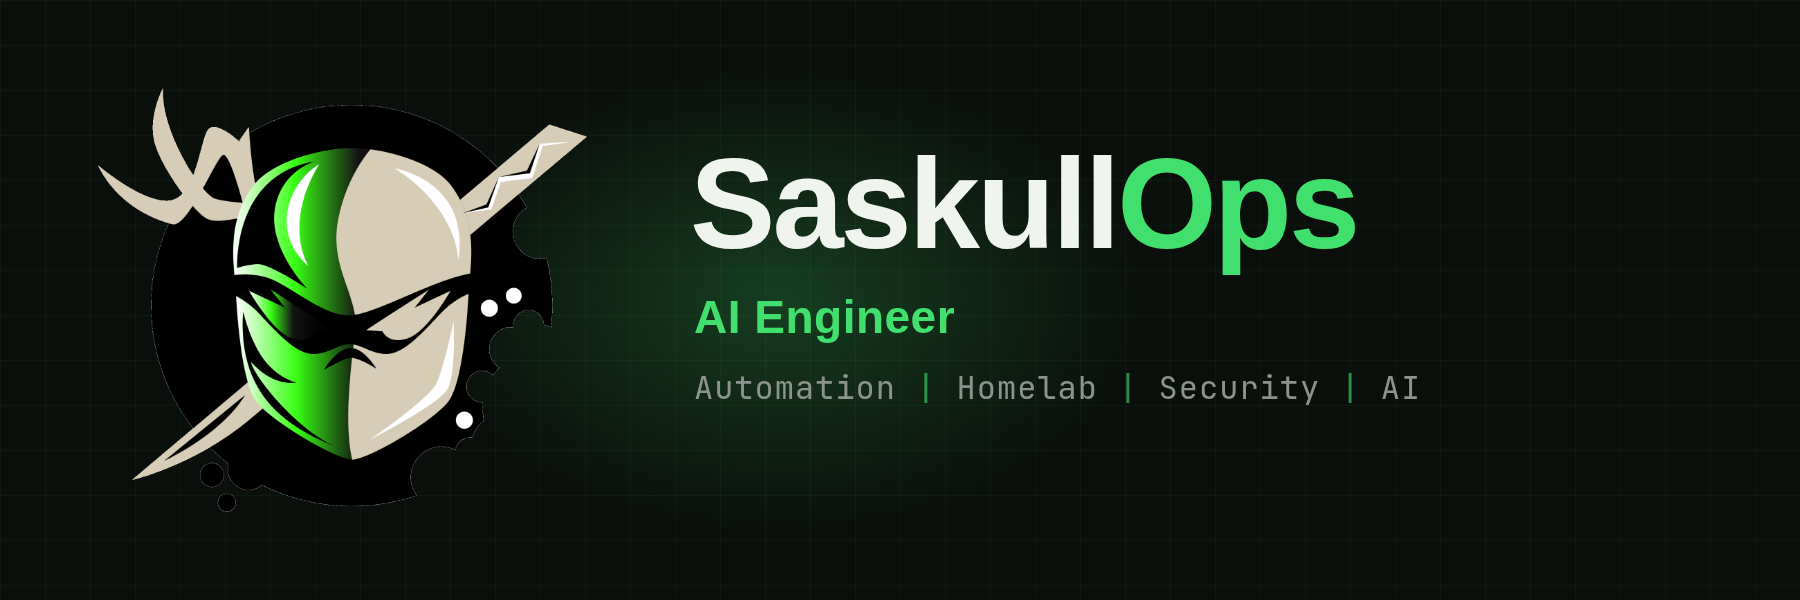
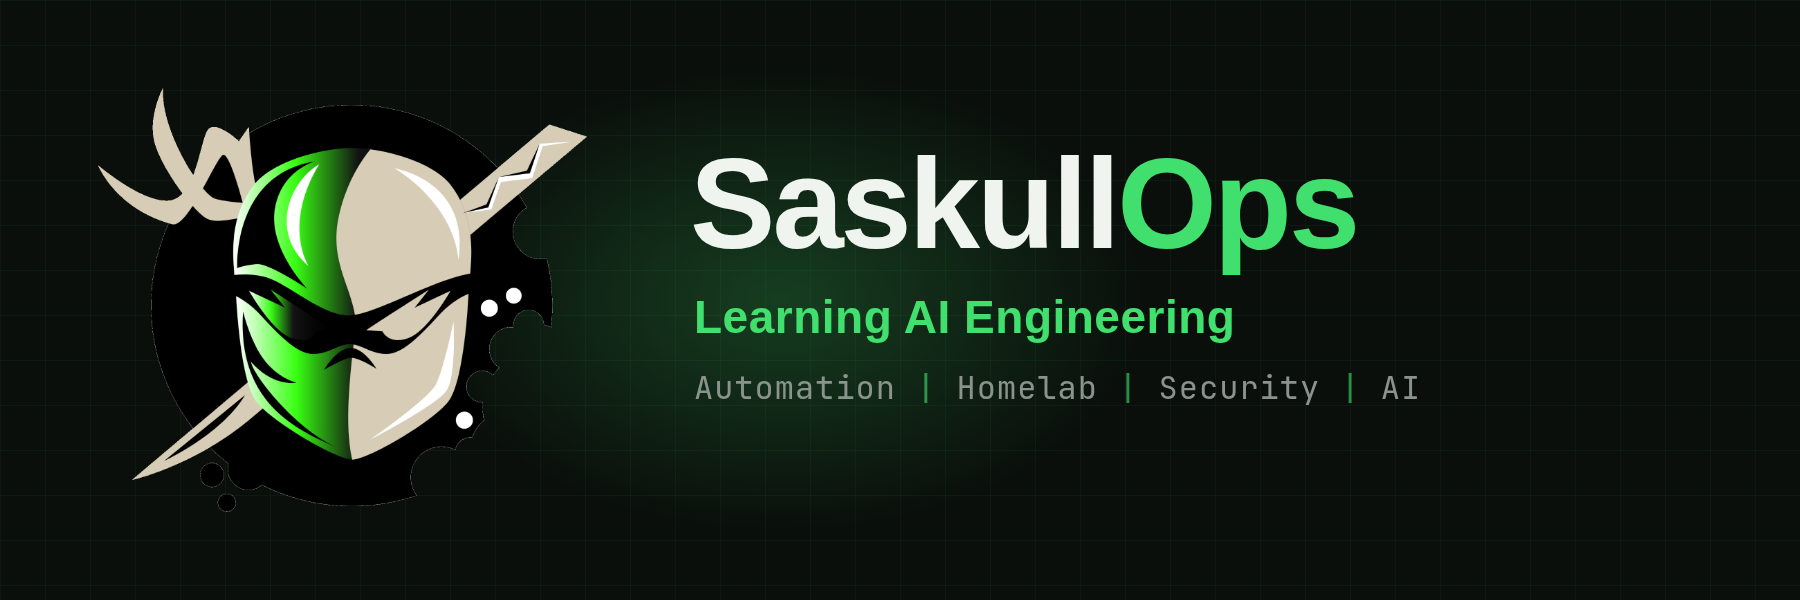
feat(brand): show learning AI engineering instead of a role claim

Changed region(s): [[0.3733, 0.48, 0.6844, 0.57]]

diff --git a/_tabs/about.md b/_tabs/about.md
@@ -8,6 +8,8 @@ Hi, I'm **Alex Guardiola**.
 
 This is my learning notebook. I work in IT, coming from logistics operations, and I use this site to build in public the things I want to understand better: automation, my homelab, security and where AI actually helps.
 
+Right now I'm studying AI engineering and applying it in these projects as I go.
+
 ### What I'm learning by building
 
 - **Automation and reporting at work.** Power Platform, SQL, Power BI and M365, with Python and n8n where they fit better. Lately I'm testing where AI assistance saves time in reporting and where a plain script does the job.
